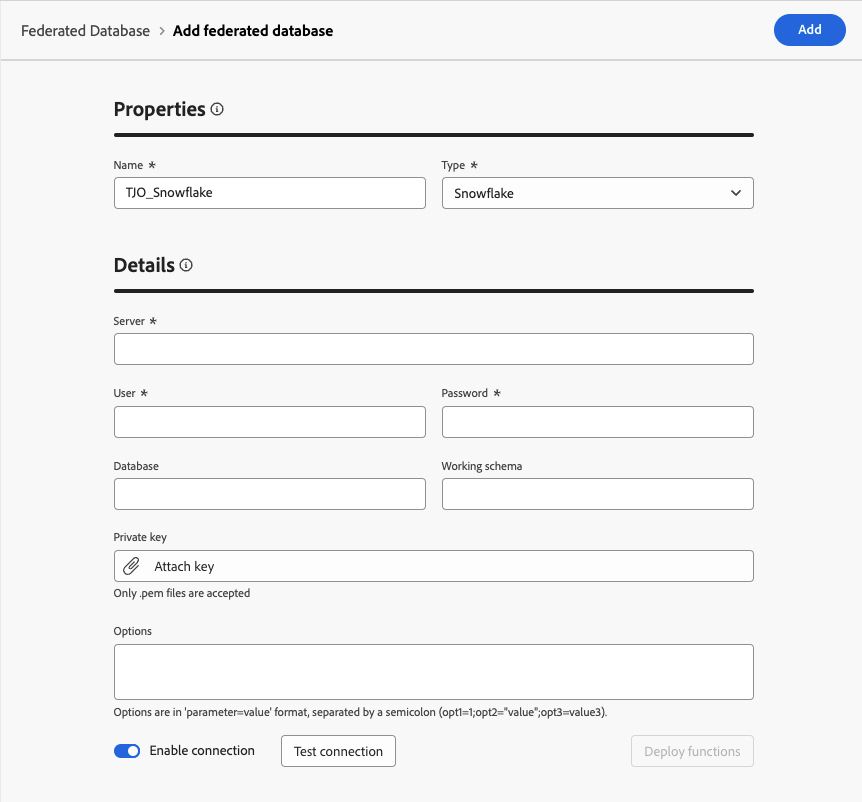
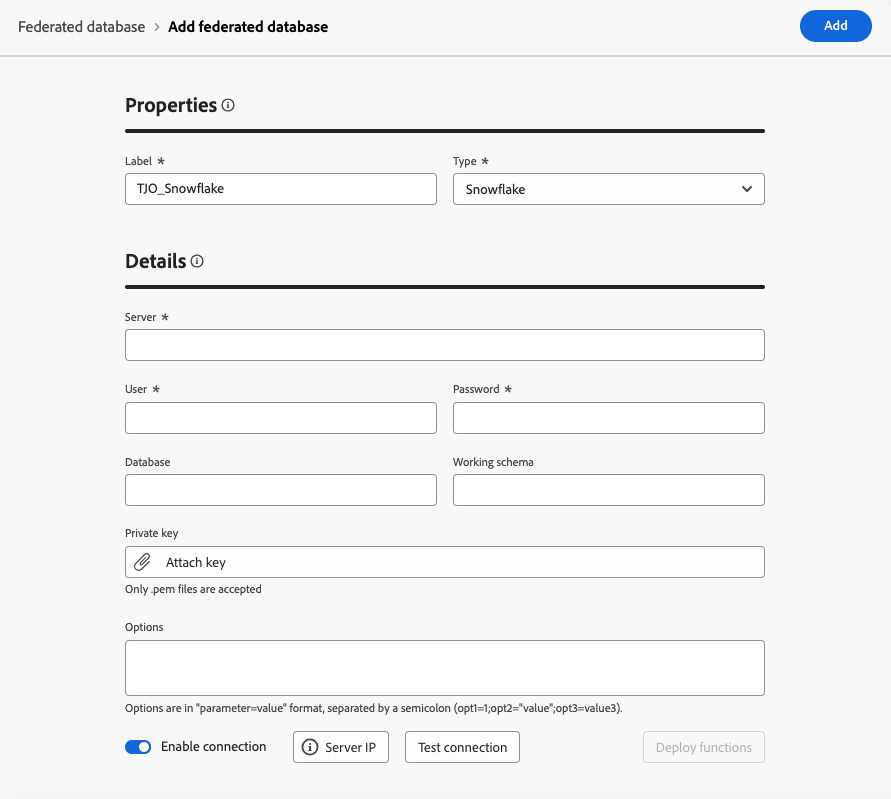
DOCAC-11477 - Display Server IPs

diff --git a/help/connections/connections.md b/help/connections/connections.md
@@ -35,6 +35,12 @@ To setup a connection with your database, follow these steps:
     * [Snowflake](federated-db.md#snowflake)
     * [Vertica Analytics](federated-db.md#vertica-analytics)
 
+1. For each supported database, you can click the **[!UICONTROL Server IP]** button. The list of all IPs associated with your Federated Audience Composition instances display.
+
+    ![](assets/connections_server_IPs.png){zoomable="yes"}
+
+    Click an IP from the list to copy it and authorize the connection to your database.
+
 1. After fill in the details, click on **[!UICONTROL Test connection]** button, and on **[!UICONTROL Deploy functions]** button.
 
     ![](assets/connections_testdeploy.png){zoomable="yes"}
